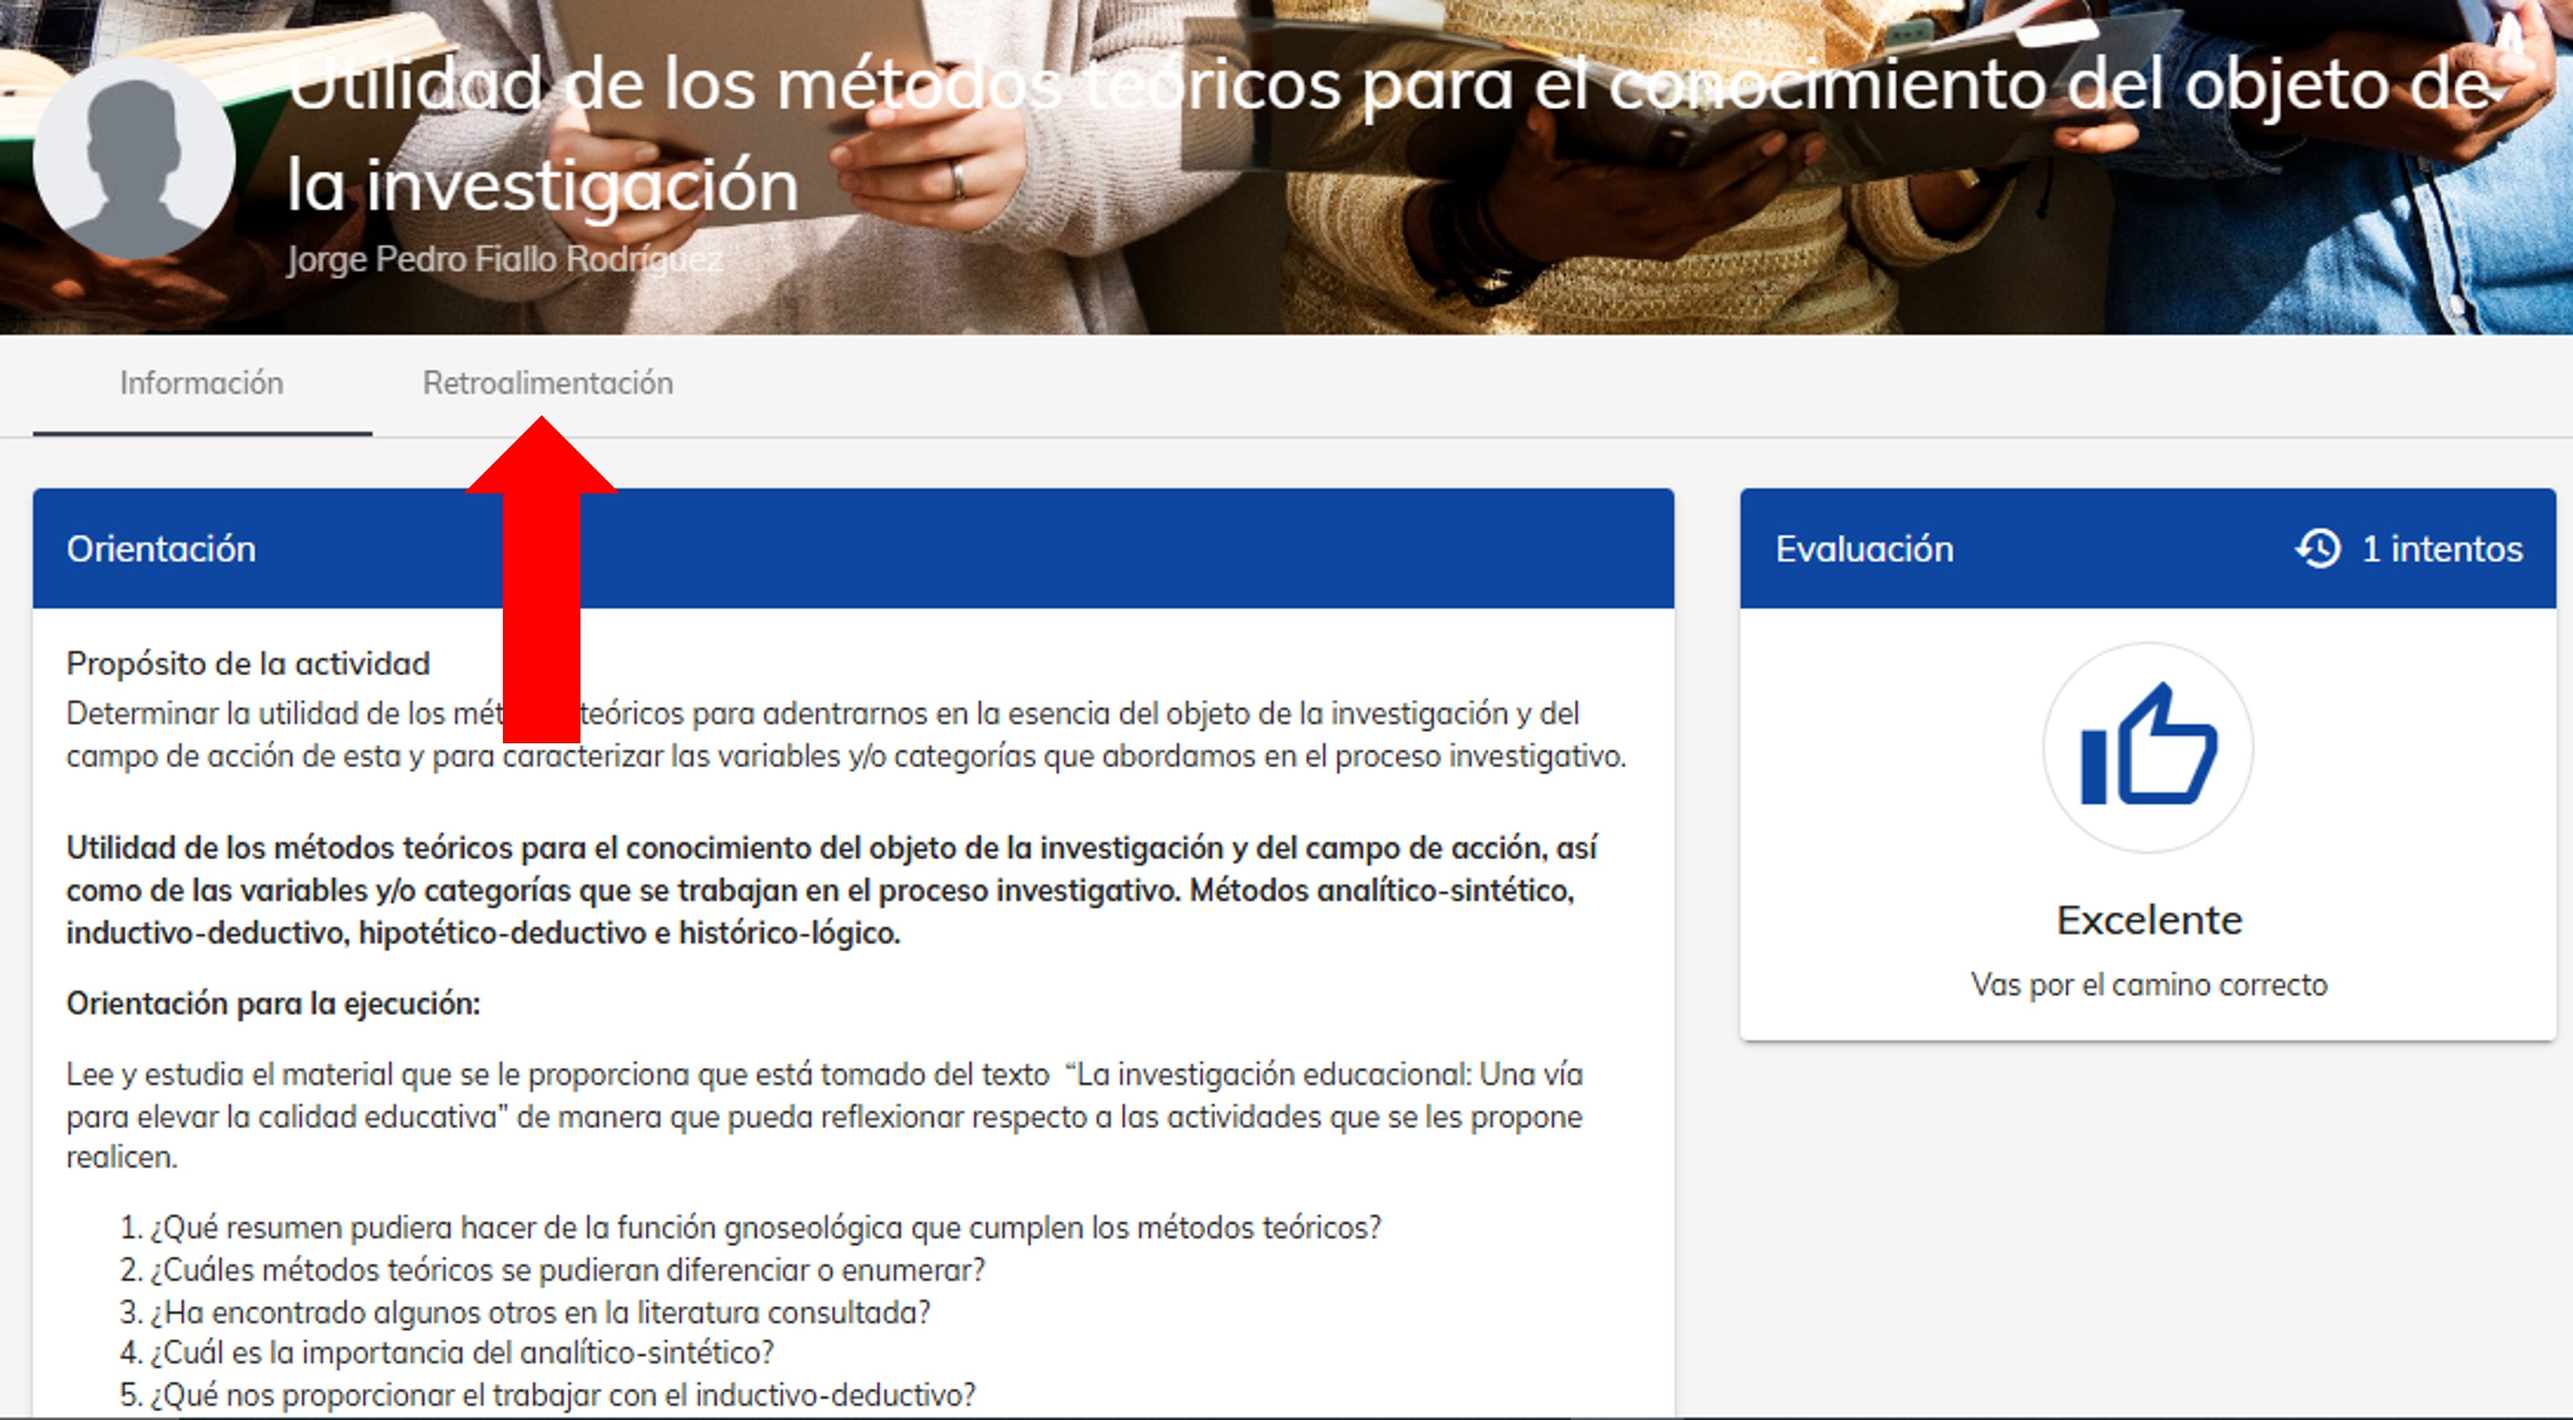
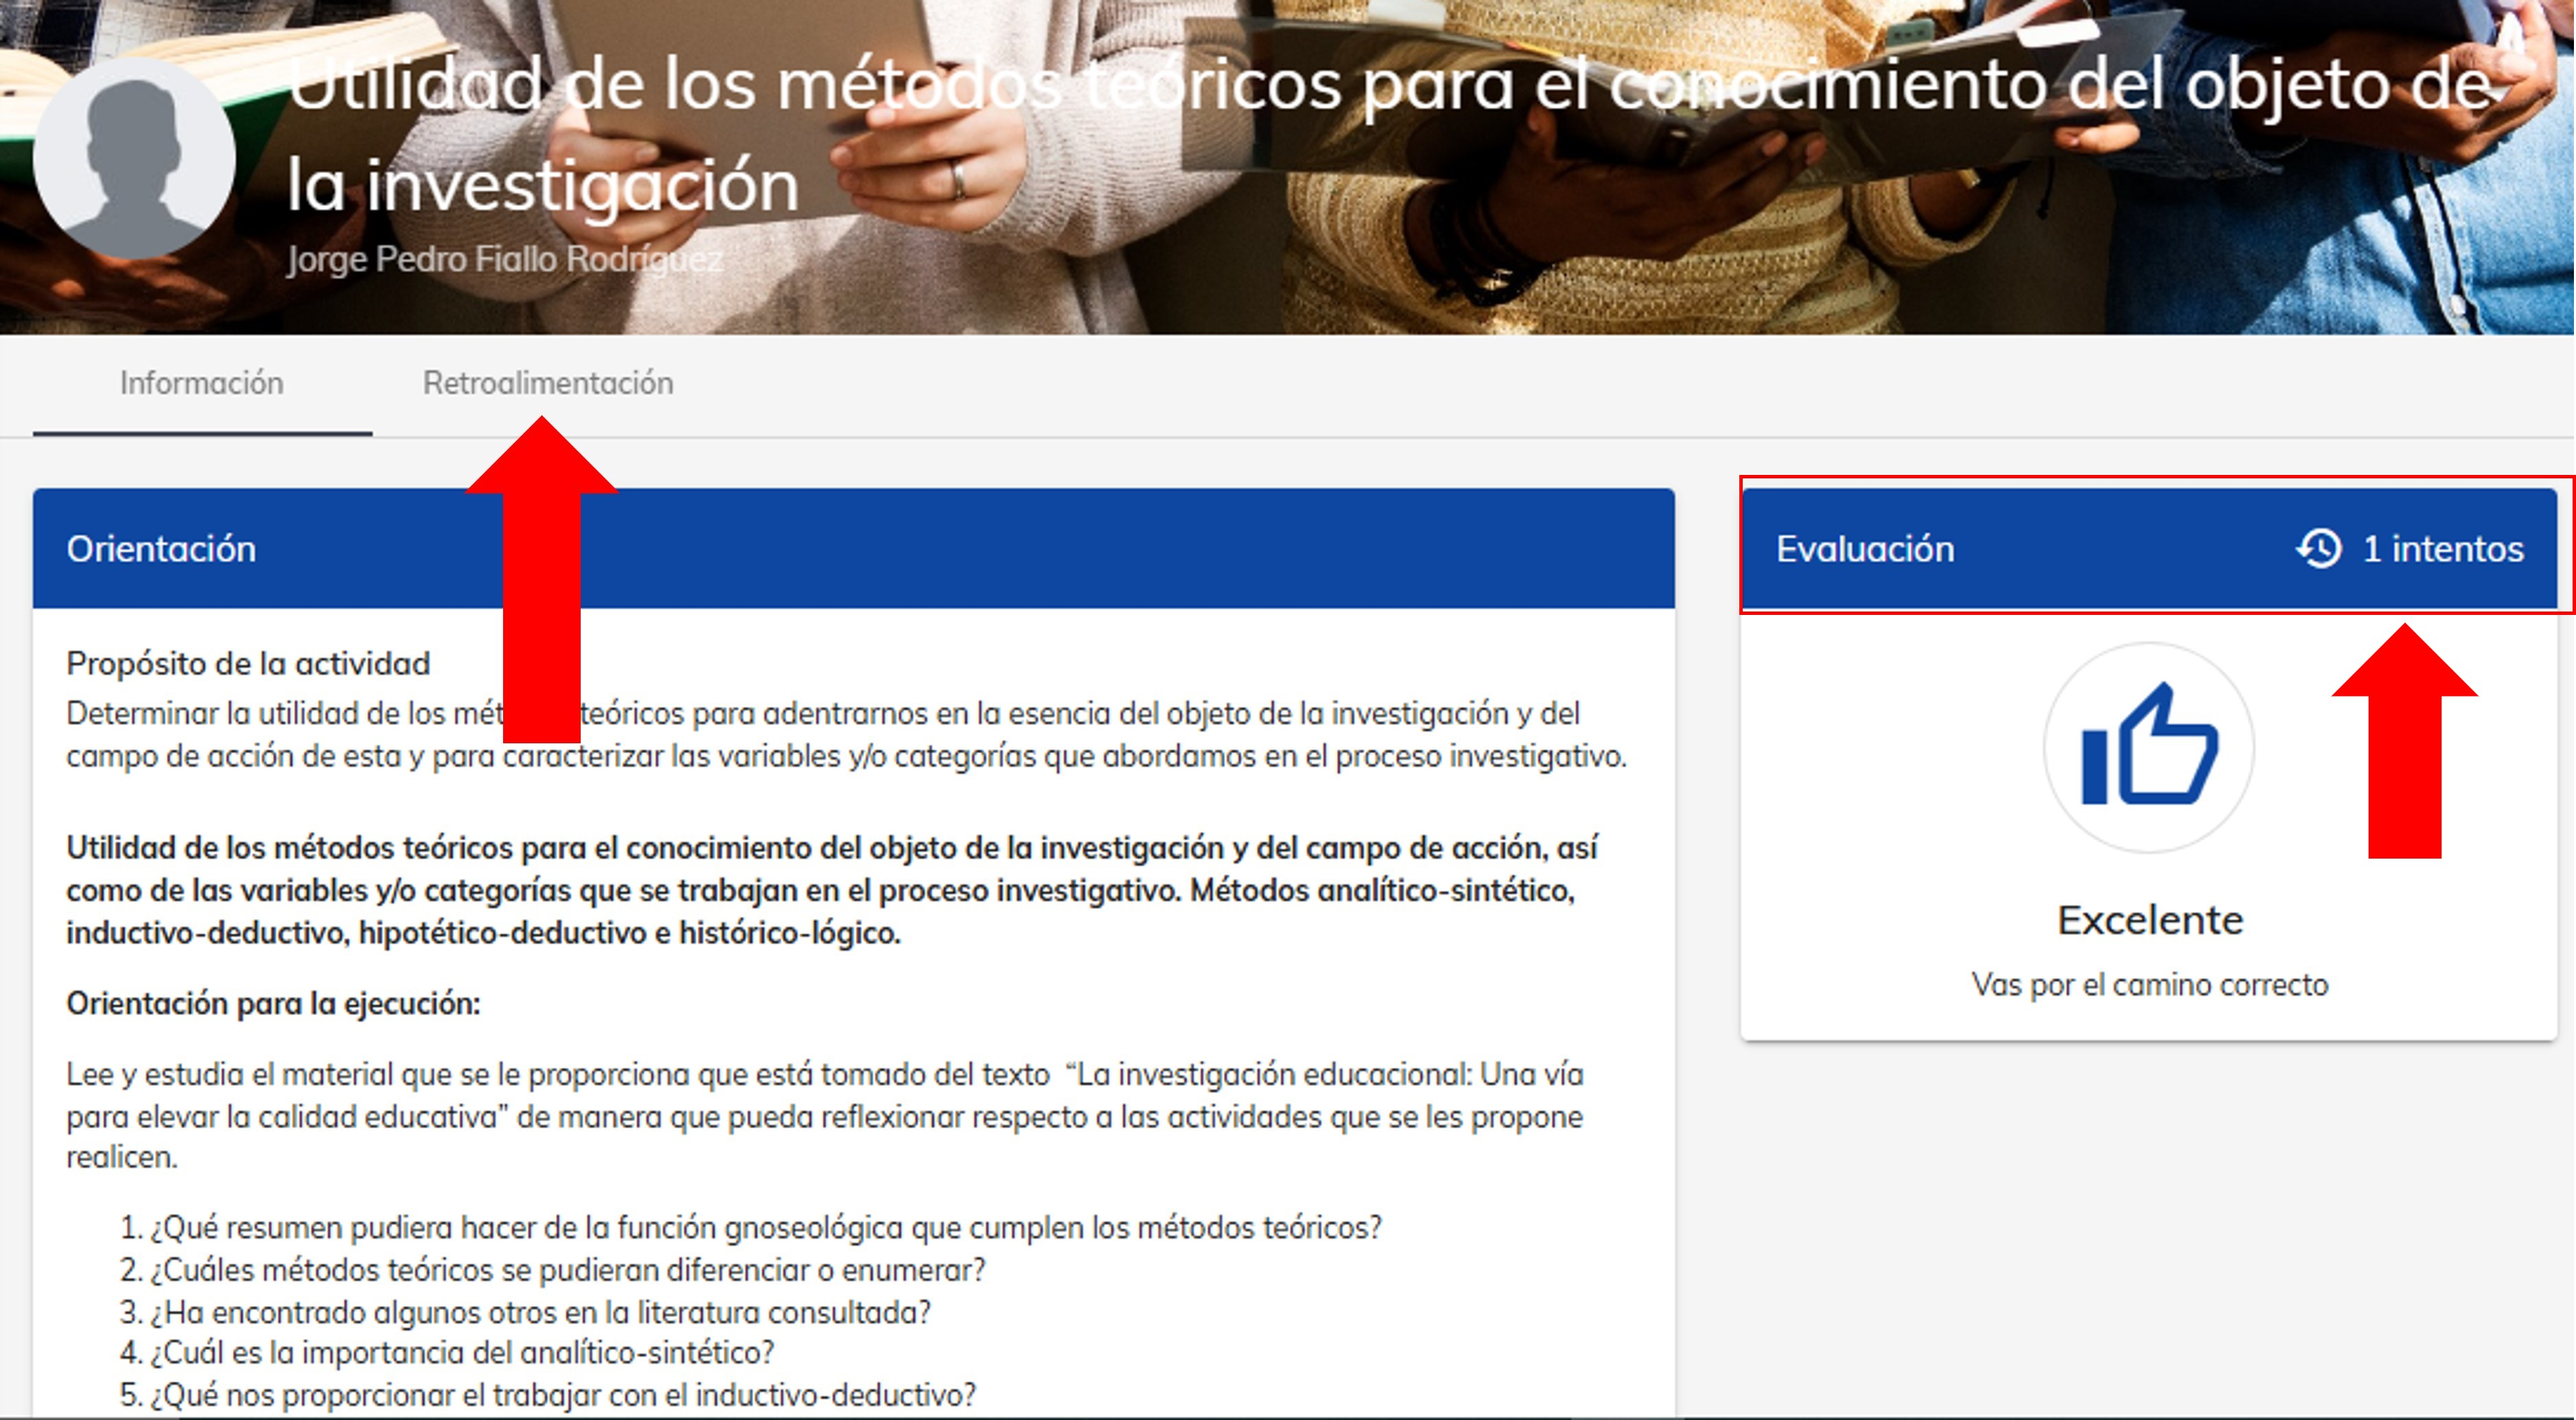
plataforma neuuni

diff --git a/docs/tutorial-basics/Plataforma NEUUNI/clase-sincronica.md b/docs/tutorial-basics/Plataforma NEUUNI/clase-sincronica.md
@@ -11,31 +11,39 @@ Aquí encontrarás las grabaciones de las clases en vivo. Perfectas para repasar
 Las clases sincrónicas tienen la finalidad de asegurar la interacción entre los mentores y estudiantes 
 en tiempo real.
 
-### 
-
-En la clase sincrónica se abordan explicaciones y demostraciones de contenidos y procedimientos prácticos sustantivos del tema, además se generan actividades que facilitan la interrelación de los 
-estudiantes, como son el trabajo entre pares, pequeños grupos y en plenarios.
-
 ![Sincro](./img/csincr1.jpg)
-
-La clase sincrónica se organiza en cuatro momentos, apertura, desarrollo, cierre y atención diferenciada a los alumnos que lo precisen.
 
 Al término de la clase sincrónica se da una atención diferenciada a los estudiantes que lo requieran, los cuales permanecen con el mentor por un espacio de hasta 30 minutos.
 
-La duración de la clase sincrónica es de una hora y media con todo el grupo y los 30 minutos de  atención diferenciada, según se precise.
-
-
 ***¿Cómo puedo acceder a las clases sincrónicas grabadas de los cursos?***
 
-Dentro de la plataforma ingresa al curso que desees para después seleccionar el tema.
+## Ingresamos a plataforma.
+
+Dentro de la plataforma de Neuuni, selecciona la materia a consultar. 
+
+![Sincro](./img/plataforma3.jpg)
+
+## Tema a consultar
+
+Elige el número de Tema del video.
+
+![Sincro](./img/cert1.jpg)
+
+## Módulo clase sincrónica
+
+Desplegados los módulos de la actividad, selecciona Clase sincrónica.
 
 ![Sincro](./img/csincr2.jpg)
+
+## ¿Como consultar?
 
 Dentro del tema seleccionado podrás observar los distintos apartados del número de tema que seleccionaste. Hay una sección con el nombre de “Clase sincrónica”, donde podrás visualizar la clase sincrónica grabada las veces que desees y en cualquier momento.
 
 ![Sincro](./img/csincr3.jpg)
 
-Al seleccionar la clase grabada, podrásver el contenido audio visual, además de poder comentar a través de texto imágenes e incluso enlaces y documentos.
+## Neuuni Connect
+
+Al seleccionar se cargará una página con un reproductor de video. Gracias a nuestra herramienta Neuuni Connect podrás realizar comentarios a tiempo real en partes específicas del video.
 
 ![Sincro](./img/csincr4.jpg)
 

diff --git a/docs/tutorial-basics/Plataforma NEUUNI/clase-virtual.md b/docs/tutorial-basics/Plataforma NEUUNI/clase-virtual.md
@@ -11,8 +11,12 @@ El pilar fundamental de tu curso. Aquí encontrarás todo lo que necesitas para 
 Este es un tutorial para 
 guiarte paso a paso en el uso de la clase virtual dentro de cada uno de los temas de un curso.
 
+## Ingresar a plataforma Neuuni.
+
 Lo primero que deveras hacer, es iniciar sesión en la plataforma de NEUUNI con la siguiente liga: 
 https://cursos.unineuuni.edu.mx
+
+## Ingresar a la materia a consultar.
 
 Una vez hayas iniciado sesión, ingresa al curso que desees.
 Para ingresar a un curso, hay 2 maneras de hacerlo:
@@ -22,10 +26,14 @@ vez dentro, podrás observar todos los cursos en los cuales estas inscrito.
 
 ![virtual](./img/virt1.jpg)
 
+## Identificar el número de tema.
+
 Al ingresar al curso, se observará la pantalla inicial donde contiene una introducción al curso.
 Seleccionamos el número de tema que deseemos.
 
 ![virtual](./img/virt2.jpg)
+
+## Ingresamos al módulo clase virtual.
 
 Una vez seleccionado el tema, nos dirigimos a la sección con el nombre de “Clase virtual”.
 
@@ -35,6 +43,8 @@ Dentro de la sección podremos observar el contenido principal del tema el cual 
 videos y texto y en algunas ocasiones con H5P, así como su progreso.
 
 ![virtual](./img/virt4.jpg)
+
+## ¿Cómo consultar?.
 
 Es importante consumir todo el contenido del tema ya que se vera reflejado al final de la página.
 
@@ -53,6 +63,7 @@ desees.
 
 ![virtual](./img/virt7.jpg)
 
+## Indicador de consulta.
 
 Al concluir con el tema, se verá reflejado de la siguiente manera.
 

diff --git a/docs/tutorial-basics/Plataforma NEUUNI/actividades.md b/docs/tutorial-basics/Plataforma NEUUNI/actividades.md
@@ -39,14 +39,16 @@ Cuando des clic en el botón de responder actividad, nos dirigirá a una ventana
 
 En este apartado podrás subir tu tarea además de adjuntar enlaces y colocar descripciones.
 
-Cuando estes listo de cargar tus documentos, al final encontraras 2 botones, uno donde podrás
-guardar tu tarea como borrador y el otro es para enviar la tarea directamente al mentor. También
-podrás encontrar estos mismos botones en la parte superior de la izquierda.
+Al cargar tus archivos, aparecerán dos botones: Guardar como borrador
+y Enviar al mentor. El primero sirve para mantener tu archivo guardado
+en la página para posteriores revisiones. La segunda opción envía tu
+tarea directamente al mentor.
+
+![act](./img/act00.jpg)
 
 ### Intentos permitidos.
 
-El encabezado muestra el número de intentos para poder enviar la tarea, esto debido al criterio del 
-mentor el cual puede evaluar tu actividad como “incompleta” por lo que deberás volver a realizarla.
+En el apartado de evaluación aparece un
 
 ![act](./img/act4.jpg)
 

diff --git a/docs/tutorial-basics/Plataforma NEUUNI/certificados.md b/docs/tutorial-basics/Plataforma NEUUNI/certificados.md
@@ -10,8 +10,8 @@ sidebar_position: 9
 
 ### Porcentaje de avance
 
-Para poder ser acreedor a un certificado, es importante haber completado el 80% del curso. El progreso de los cursos se basa en los distintos temas que hayas completando a lo largo del curso. 
-
+Para obtener el certificado de la materia, es importante tener com-
+pletado el 80 % del curso.
 
 ![cert](./img/cert1.jpg)
 
@@ -40,7 +40,7 @@ Al seleccionar la opcion anterior se nos mostrara la siguiente visualizacion de 
 
 ### Todos mis certificados
 
-En el menú lateral, tendrás un apartado con el nombre ”Mis certificados”, aquí encontraras todos los certificados de los cursos que has completado con éxito.
+En el menú lateral, tendrás un apartado con el nombre "Mis certificados". Aquí encontrarás todos los certificados de los cursos que has completado con éxito.
 Puedes descargar tus certificados las veces que desees y en cualquier momento.
 
 ![cert](./img/cert5.jpg)
